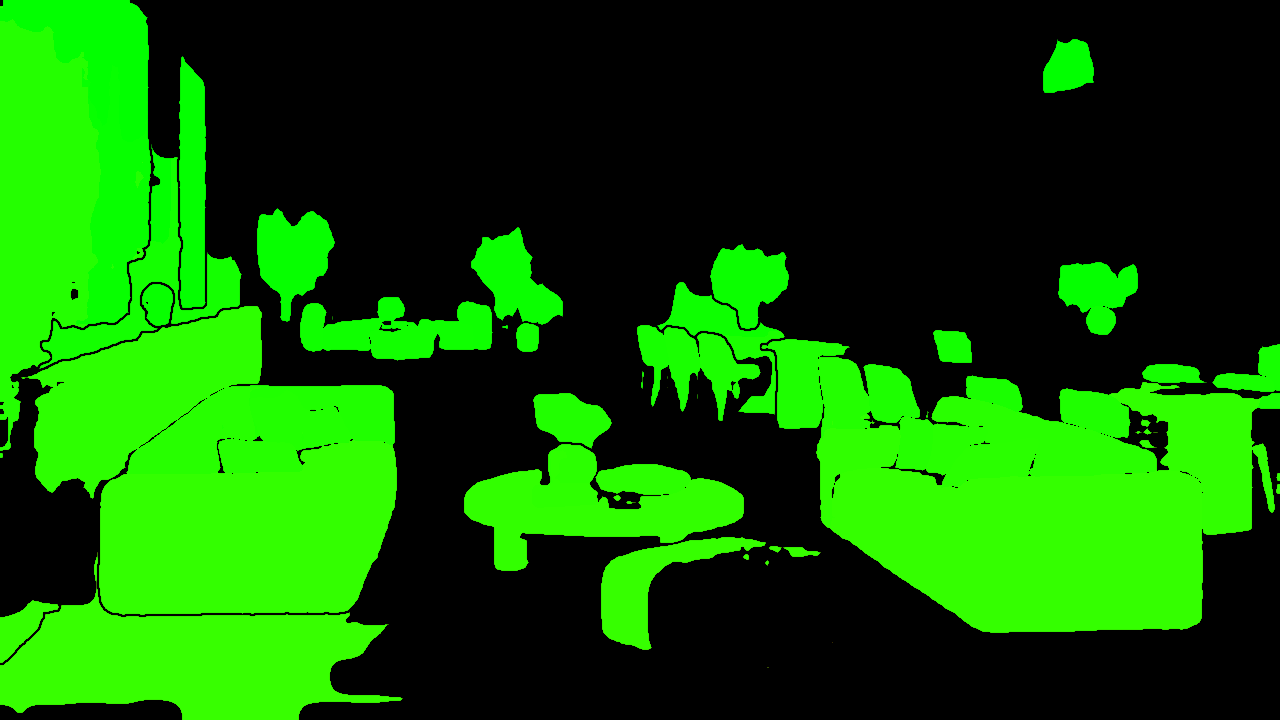
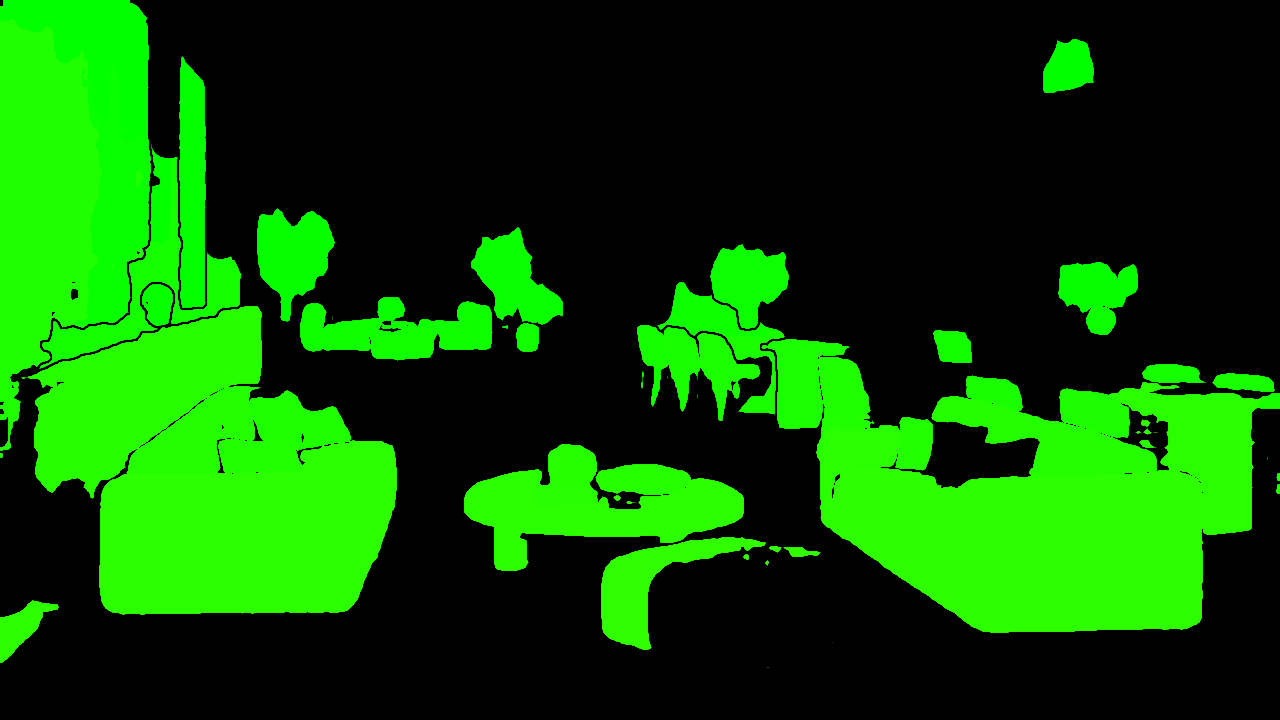
Hero build: label pieces with CLIP, drop reflections, draw plants as foliage

diff --git a/trade/filmBuild.ts b/trade/filmBuild.ts
@@ -57,11 +57,12 @@ const LIGHT = (() => { const v = [-0.55, -0.62, 0.56], m = Math.hypot(...v); ret
 const grain = (x, y) => { const s = Math.sin(x * 12.9898 + y * 78.233) * 43758.5453; return s - Math.floor(s); };
 
 /**
- * The tone of one object (a chair, the sofa, a table) as a solid pencil study: an opaque body of
- * paper shaded to its form and deepening toward its edges as it turns away, so it hides the room's
- * lines and anything behind it and reads as its own solid piece; hatching that follows its volume, cross-hatched
- * where darkest; and a soft shadow on the floor. Its lines come from
- * its own drawing (sketch.png). The real object supplies the shading, not its look: its material
+ * One object (a chair, the sofa, a table) as a solid pencil study: an opaque body of paper shaded
+ * to its form and deepening toward its edges as it turns away, so it hides the room's lines and
+ * anything behind it; one clean, continuous outline round its whole silhouette, so every piece is
+ * drawn out in full even where the line drawing is faint; hatching that follows its volume,
+ * cross-hatched where darkest; and a soft shadow on the floor. Its inner lines come from its own
+ * drawing (sketch.png). Plants are drawn as their foliage alone. The real object supplies the shading, not its look: its material
  * is divided out (each pixel against the object's own local brightness, so dark leather and pale
  * bouclé shade the same) and fine texture is smoothed away.
  */
@@ -75,6 +76,17 @@ function tone(fullPx, objPx, W, id, b) {
   }
   const r1 = Math.max(1, Math.round(W / 500));
   const shape = boxBlur(boxBlur(a, w, h, r1), w, h, r1);
+  // the silhouette smoothed into one clean shape: its 0.5 contour is the outline, and the body
+  // stops crisply at it
+  // Thin bits (a leg's reflection running down a glossy floor, a stray stem) are trimmed off
+  // first, by opening the mask: legs stay drawn by the line drawing, not traced as drips.
+  const rO = Math.max(3, Math.round(W / 260));
+  const opened = boxBlur(boxBlur(a, w, h, rO).map((v) => (v > 0.92 ? 1 : 0)), w, h, rO).map((v) => (v > 0.08 ? 1 : 0));
+  for (let i = 0; i < N; i++) opened[i] = Math.min(opened[i], a[i]);
+  const rC = Math.max(2, Math.round(W / 400)), sm = boxBlur(boxBlur(opened, w, h, rC), w, h, rC);
+  // Plants (the build names each object) are drawn as foliage alone: a filled, outlined
+  // silhouette of a tree reads as a cloud.
+  const plant = b.kind === 'plant';
   // normalised blurs, inside the object only, so the floor around it never bleeds in
   const nblur = (r, n) => { let v = La, m = a; for (let k = 0; k < n; k++) { v = boxBlur(v, w, h, r); m = boxBlur(m, w, h, r); } return [v, m]; };
   const at = ([v, m], i, d = 0) => (m[i] > 0.02 ? v[i] / m[i] : d);
@@ -88,7 +100,7 @@ function tone(fullPx, objPx, W, id, b) {
   // and so do rugs and anything else lying flat on the floor
   const solid = y + h <= (b.H || W * 0.5625) * 0.55 ? 0.55 : h < w * 0.45 ? 0.4 : 1;
   const hatch = (u, t, wob) => { const q = (((u + wob) % P) + P) % P, d = Math.min(q, P - q), half = 0.2 + 0.55 * t; return 1 - ss(half, half + 0.8, d); };
-  const fill = new Uint8ClampedArray(N * 4), shadow = new Uint8ClampedArray(N * 4), body = new Uint8ClampedArray(N * 4);
+  const fill = new Uint8ClampedArray(N * 4), shadow = new Uint8ClampedArray(N * 4), body = new Uint8ClampedArray(N * 4), edgeLine = new Uint8ClampedArray(N * 4);
   for (let yy = 0; yy < h; yy++) for (let xx = 0; xx < w; xx++) {
     const i = yy * w + xx, o = i * 4;
     const xl = Math.max(0, xx - 1), xr = Math.min(w - 1, xx + 1), yu = Math.max(0, yy - 1), yd = Math.min(h - 1, yy + 1);
@@ -103,12 +115,15 @@ function tone(fullPx, objPx, W, id, b) {
     const h1 = hatch(xx + yy, t, wob) * 0.3 * ss(0.4, 0.7, t);
     const h2 = hatch(xx - yy, t - 0.4, -wob) * 0.24 * ss(0.75, 1, t);
     for (let e = 0; e < 3; e++) fill[o + e] = GRAPHITE[e];
-    fill[o + 3] = 255 * Math.max(h1, h2) * g * ss(0.45, 0.6, shape[i]);
+    fill[o + 3] = plant ? 0 : 255 * Math.max(h1, h2) * g * ss(0.5, 0.6, sm[i]);
+    // the outline: a pencil line along the smoothed silhouette, about two pixels wide
+    for (let e = 0; e < 3; e++) edgeLine[o + e] = GRAPHITE[e];
+    edgeLine[o + 3] = plant ? 0 : 255 * 0.85 * Math.min(1, 0.4 + 0.6 * solid) * (0.85 + 0.15 * g) * Math.max(0, 1 - Math.abs(sm[i] - 0.5) / 0.16);
     // the solid body: lit paper on the light side, a graphite wash deepening into the shade and
     // toward the edges, where the form turns away
     const d = 0.03 + 0.34 * t * (0.85 + 0.15 * g) + 0.16 * (1 - ss(0.45, 0.95, deep[i]));
     for (let e = 0; e < 3; e++) body[o + e] = BODY[e] + (GRAPHITE[e] - BODY[e]) * d;
-    body[o + 3] = 255 * solid * ss(0.3, 0.55, shape[i]);
+    body[o + 3] = plant ? 0 : 255 * solid * ss(0.44, 0.54, sm[i]);
   }
   // cast shadow on the floor: the silhouette, dropped and spread, a soft smudge of graphite
   const rS = Math.max(4, Math.round(W / 110)), drop = Math.round(h * 0.03);
@@ -118,7 +133,7 @@ function tone(fullPx, objPx, W, id, b) {
     for (let e = 0; e < 3; e++) shadow[o + e] = GRAPHITE[e];
     shadow[o + 3] = 255 * Math.min(1, sa * 0.42 * (0.8 + 0.2 * grain(xx + x, yy + y)));
   }
-  return { fill: toCanvas(fill, w, h), shadow: toCanvas(shadow, w, h), body: toCanvas(body, w, h) };
+  return { fill: toCanvas(fill, w, h), shadow: toCanvas(shadow, w, h), body: toCanvas(body, w, h), edge: toCanvas(edgeLine, w, h) };
 }
 
 /**
@@ -271,6 +286,8 @@ export async function loadBuild(base) {
         if (s0 < STAGES) { g.globalAlpha = fade * (f - s0); g.drawImage(o.lines[s0], o.x, o.y); }
         g.globalAlpha = 1;
       }
+      // its outline closes round it as it is drawn
+      wipe(g, o.edge, o.x, o.y, o.w, o.h, ss(0, 0.6, k), 'up', fade, 0.3);
     }
     if (sweep > 0) {
       for (const p of pieces) reveal(g, p, e);
